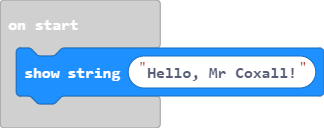
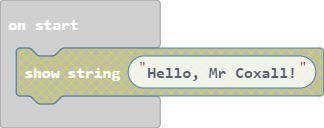
update

Changed region(s): [[0.0309, 0.375, 1.0, 0.8125]]

diff --git a/main.ts b/main.ts
@@ -60,4 +60,3 @@ input.onButtonPressed(Button.B, function () {
     music.playTone(349, music.beat(BeatFraction.Whole))
     music.playTone(294, music.beat(BeatFraction.Whole))
 })
-basic.showString("Hello, Mr Coxall!")

diff --git a/lesson-01.md b/lesson-01.md
@@ -37,7 +37,7 @@ Let's program the micro:bit:
 
 ```blocks
 // @highlight
-basic.showString("Hello!")
+basic.showString("Hello, Mr Coxall!")
 ```
 
 ## Now let's check our first program!
@@ -49,7 +49,7 @@ Let's check our program:
 
 ## Finally! let's flash our first program!
 
-![micro:bit flashing program image](https://raw.githubusercontent.com/Mr-Coxall/Microbit-Christmas-Decoration/master/docs/static/pair.png)
+![micro:bit flashing program image](https://raw.githubusercontent.com/Mr-Coxall/Microbit-Christmas-Decoration/master/docs/static/transfer.png)
 
 Let's flash our program over to the micro:bit:
 - hit the "Download" button at the bottom of the screen
